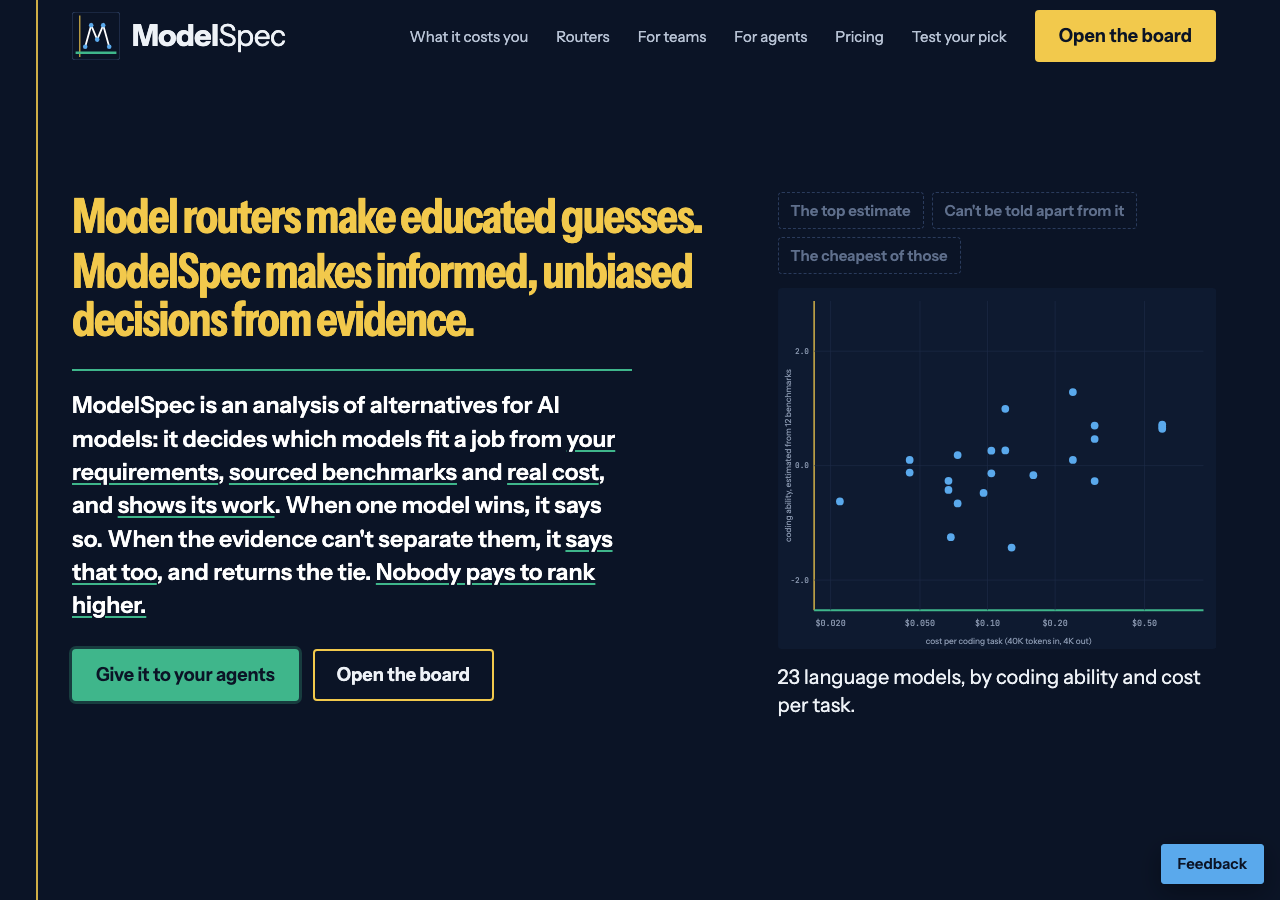
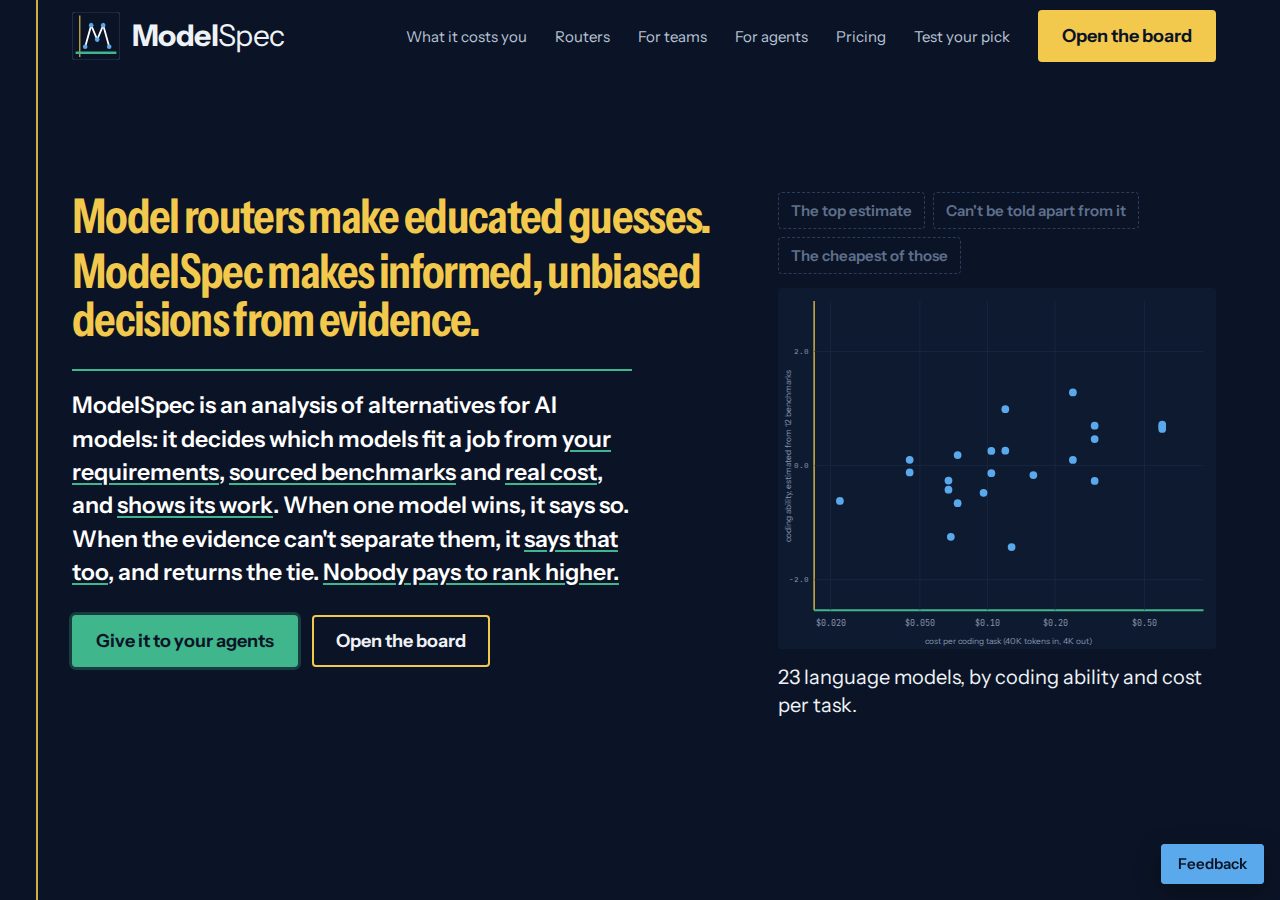
MODEL-470: retake the landing screenshots at 375, 390 and 1280 px
Playwright Chromium viewport captures of the built landing page, device
scale 1: before is a build of origin/main, after is this branch. The
390-only phone pair is replaced by 375x812 and 390x844 pairs, and the
desktop pair is retaken because the headline changed. The evidence file
records the hero measurements at 320, 375, 390, 899 and 1280 px.

diff --git a/docs/evidence/MODEL-470-fix.md b/docs/evidence/MODEL-470-fix.md
@@ -44,17 +44,13 @@ Exit 0. Vitest: 937 passed, 64 files, 1 file skipped.
 
 ## Screenshots
 
-Desktop window 1280×900, kept from round 1. This round did not change the page.
+Retaken in round 2 (2026-11-25), after the headline change. Before is a build of `origin/main` at `4822b31b`. After is a build of this branch. Each is a Playwright Chromium viewport capture of the built landing page, device scale 1.
 
-- `docs/evidence/MODEL-470/desktop-before.png`
-- `docs/evidence/MODEL-470/desktop-after.png`
+- Desktop, 1280×900: `docs/evidence/MODEL-470/desktop-before.png`, `docs/evidence/MODEL-470/desktop-after.png`
+- Phone, 375×812: `docs/evidence/MODEL-470/mobile-375-before.png`, `docs/evidence/MODEL-470/mobile-375-after.png`
+- Phone, 390×844: `docs/evidence/MODEL-470/mobile-390-before.png`, `docs/evidence/MODEL-470/mobile-390-after.png`
 
-Round 1's mobile files were a wide layout cropped to 390×844. Round 2 replaced them with captures from the built sites at a 390×844 viewport, device scale 1.
-
-- `docs/evidence/MODEL-470/mobile-before.png` from the build of `58748fec`
-- `docs/evidence/MODEL-470/mobile-after.png` from the build of this round
-
-On the current page the router line is `Evidence-backed logic that powers complex model routing.` and it wraps onto two line boxes. `documentElement.scrollWidth` is 390, the same as `innerWidth`. The page has one `h1`. The pre-change page has no router line. Its hero text fits the same 390-wide viewport.
+Round 1's mobile pair was a wide layout cropped to 390×844, and the first round-2 pair was 390 only. Both pairs are replaced by the files above.
 
 ## Generators
 
@@ -116,3 +112,35 @@ The branch was behind `origin/main` (`3c9bc73a`, MODEL-468). That merge does not
 The first GitHub check after the round-2 push failed while installing the package. `hatch_build.py` refused `cli/modelspec/agent-bundle.json` because the digest of `pipeline/entity.py` was stale. Pytest shards, the package smoke test, the rank Worker bundle, and the Worker memory job all stopped on that same `ValueError`. `python -m pipeline.agent_copy write` changed only that digest. `python -m pipeline.agent_copy check` exited 0.
 
 Not observed here: a browser session against modelspec.dev, and the `web/` test suite.
+
+## Round 2, headline (2026-11-25)
+
+Jamie, 2026-11-25: "Go with anything you have a recommendation for." The recommendation on record was to make the tagline the landing headline.
+
+- The landing hero's one `h1` is `entity.TAGLINE`, through `landing.HEADLINE`. The previous two-line headline is gone from the page. The landing social card and its `og:image:alt` read `landing.HEADLINE` as well.
+- The router line is the first paragraph after the `h1`, and the one sentence leads the second. `/about/` is unchanged: its own heading, then the three paragraphs.
+- `pipeline/surface_lint.py` now requires the landing's only `h1` to be the tagline, then the router line, then a lead that starts with the one sentence. New tests: `test_the_landing_tagline_is_the_one_h1` and `test_the_landing_router_line_and_sentence_follow_the_headline` in `tests/test_surface_lint.py`. `tests/test_entity.py`, `tests/test_landing.py` and `tests/test_holding.py` check the same order and that the old headline is absent.
+- Unchanged: `<title>`, `entity.SHORT` (the MCP card short description), every contract version and enum, `docs/legal/`, ranking and neutrality.
+
+Hero layout, from the built pages (`node` with Playwright, five viewports). At every width `documentElement.scrollWidth` equals `innerWidth`, the page has one `h1`, no element in the hero extends past the viewport, and the router line's scroll width equals its client width.
+
+| Width | `h1` height (one line) | Router line height |
+| --- | --- | --- |
+| 320 | 32px | 36px (two lines) |
+| 375 | 32px | 36px (two lines) |
+| 390 | 32px | 36px (two lines) |
+| 899 | 32px | 18px |
+| 1280 | 48px | 22px |
+
+Merges: `origin/main` was merged twice (no rebase). The first merge had one conflict, the source hashes in `qa/fixtures/mcp-tools.json`. It was resolved by running the generators: `python -m pipeline.agent_copy write`, `python api/worker/openapi.py`, `python -m qa.contracts`. `python -m pipeline.agent_copy check` exited 0. The second merge had no conflict.
+
+Round-2 review items, checked on this branch: the two ablation fixtures match `origin/main` byte for byte; the copy lint reads every git-tracked text file; `SUPERSEDED` lists the retired cost tail; the phone screenshots are real 375 and 390 viewports.
+
+The site build and the lint on the built tree:
+
+```bash
+PYTHONPATH=$PWD /home/turbobeest/dev/04-modelspec/modelspec/.venv/bin/python -m pipeline.build --out <scratch>/after-dist
+PYTHONPATH=$PWD /home/turbobeest/dev/04-modelspec/modelspec/.venv/bin/python -m pipeline.surface_lint --tree <scratch>/after-dist/modelspec
+```
+
+Both exited 0. The lint reported 0 findings.
